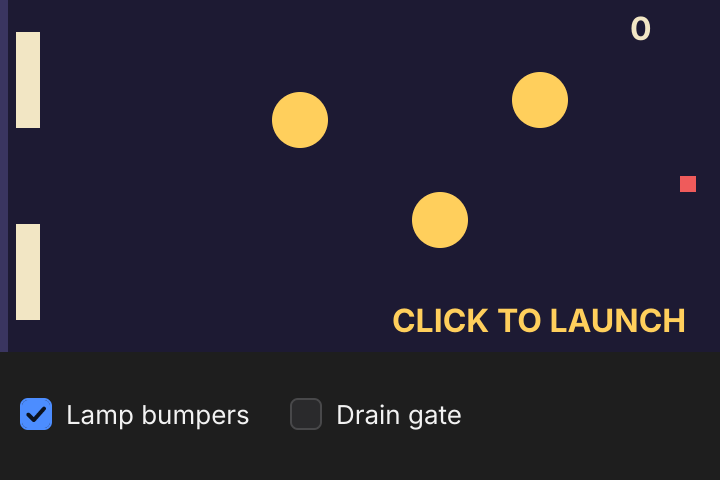
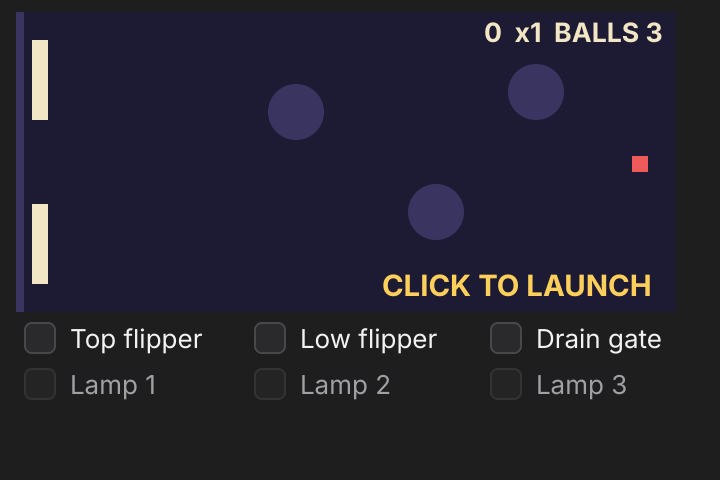
Make the check buttons of Moth Lamp its flippers and lamps
Two check buttons are the flippers: a flipper is up while its check
button is on, and Up and Down call select and deselect. Three disabled
check buttons show the lamps, and the game selects each lamp that the
ball hits. Three lit lamps raise the multiplier. The drain gate holds
for 8 seconds of each ball at half the points, and then the game
deselects and disables it. A game has three balls, and the ball gets
faster the longer it stays in play.

diff --git a/docs/site/index.html b/docs/site/index.html
@@ -51,7 +51,7 @@ if (location.hash && !document.getElementById(decodeURIComponent(location.hash.s
   <div class="wrap">
     <p class="eyebrow">Play</p>
     <h2>A pinball table, in ztk, in this page.</h2>
-    <p class="lede">Moth Lamp is a ztk app that runs in this page as WebAssembly, and its Tcl code is next to it. Click the table or press Space to launch the ball, and press Up and Down to flip. A strong flip sends the ball out of the table and across this page. The check buttons switch the lamps and the drain gate. <a href="widgets/toggles/#play-moth-lamp">Moth Lamp on its widget page</a> · <a href="toys/">All the toys</a></p>
+    <p class="lede">Moth Lamp is a ztk app that runs in this page as WebAssembly, and its Tcl code is next to it. Its flippers are two check buttons: hold Up and Down, or click them. Click the table or press Space to launch, light the three lamps for a multiplier, and keep three balls in play as long as you can. A hit with the middle of a flipper sends the ball out of the table and across this page. <a href="widgets/toggles/#play-moth-lamp">Moth Lamp on its widget page</a> · <a href="toys/">All the toys</a></p>
     <!-- live: toy-mothlamp -->
   </div>
 </section>

diff --git a/docs/widgets/toggles.md b/docs/widgets/toggles.md
@@ -19,82 +19,105 @@ pack .sync .mixed .wifi -anchor w -padx 12 -pady 2
 
 ### Play: Moth Lamp
 
-Moth Lamp is a pinball table on its side, and two check buttons switch the table: "Lamp bumpers" puts the three lamps in, and "Drain gate" closes the drain. Click the table or press Space to launch. Up and Down, or the pad, flip the top and the low flipper. A flip with the middle of a flipper is a strong flip: with "Play on the page" on, the ball leaves the table, falls across the page, and bounces off the headings and the code. Each one that it hits lights up and gives 500 points when the ball comes back. Escape or a scroll brings the ball back at once.
+Moth Lamp is pinball on its side, and its check buttons are the table. "Top flipper" and "Low flipper" are the flippers: a flipper is up while its check button is on. Hold Up or Down, which call `select` on the press and `deselect` on the release, or click the check buttons. Each lamp that the ball hits lights its check button with `select`. The lamp buttons have `-state disabled`, so only the game sets them. Light all three lamps and the multiplier goes up, and the lamps go out. "Drain gate" closes the drain for 8 seconds of each ball, and a hit gives half the points while it is closed. Then the game deselects it and disables it until the next ball. You have three balls, and the ball gets faster the longer it stays in play. Click the table or press Space to launch. With "Play on the page" on, a hit with the middle of a flipper sends the ball out of the table, and each heading that it hits gives 500 points times the multiplier when it comes back.
 
 <!-- widget: toy-mothlamp; shot: update -->
 ```tcl
-# Moth Lamp: a pinball table on its side. The check buttons switch the table.
+# Moth Lamp: pinball on its side. Two check buttons are the flippers, and three show the lamps.
 set ink {#1d1a33 #f2e6c4 #ef5b5b #ffcf5c #3a3560}
-set H 176
-canvas .c -width 360 -height $H -bg [lindex $ink 0] -highlightthickness 0
-checkbutton .lamps -text "Lamp bumpers" -variable lamps
+set H 150
+canvas .c -width 330 -height $H -bg [lindex $ink 0] -highlightthickness 0
+checkbutton .top -text "Top flipper" -variable flip(up)
+checkbutton .low -text "Low flipper" -variable flip(down)
 checkbutton .gate -text "Drain gate" -variable gate
-pack .c -fill x
-pack .lamps .gate -side left -padx 8
-set lamps 1; set gate 0
-# Three lamps: a hit gives 100 points and a kick.
-set bumpers {150 60 220 110 270 50}
-foreach {x y} $bumpers { .c create oval [expr {$x-14}] [expr {$y-14}] [expr {$x+14}] [expr {$y+14}] -tags lamp -fill [lindex $ink 3] -width 0 }
-.c create rectangle 0 0 4 $H -tags gate -fill [lindex $ink 4] -width 0
-foreach {tag y} {top 40 low 136} { .c create rectangle 8 [expr {$y-24}] 16 [expr {$y+24}] -tags $tag -fill [lindex $ink 1] -width 0 }
+foreach n {1 2 3} { checkbutton .lamp$n -text "Lamp $n" -variable lamp($n) -state disabled }
+grid .c - - -padx 8 -pady {6 2}
+grid .top .low .gate -sticky w -padx 10
+grid .lamp1 .lamp2 .lamp3 -sticky w -padx 10
+array set flip {up 0 down 0}; array set lamp {1 0 2 0 3 0}; set gate 0
+# Three lamps: a hit gives 100 points and lights the check button of the lamp.
+set bumpers {140 50 210 100 260 40}
+foreach {x y} $bumpers { .c create oval [expr {$x-14}] [expr {$y-14}] [expr {$x+14}] [expr {$y+14}] -tags lamp -fill [lindex $ink 4] -width 0 }
+.c create rectangle 0 0 4 $H -tags gatebar -fill [lindex $ink 4] -width 0
+foreach {tag y} {up 34 down 116} { .c create rectangle 8 [expr {$y-20}] 16 [expr {$y+20}] -tags $tag -fill [lindex $ink 1] -width 0 }
 .c create rectangle 0 0 8 8 -tags ball -fill [lindex $ink 2] -width 0
-.c create text 270 160 -tags msg -text "CLICK TO LAUNCH" -fill [lindex $ink 3] -font {TkFixedFont 12 bold}
-.c create text 320 14 -tags score -fill [lindex $ink 1] -font {TkFixedFont 12 bold}
-array set b {x 340 y 88 vx 0 vy 0 run 0 out 0 score 0 flip 0}
+.c create text 250 136 -tags msg -text "CLICK TO LAUNCH" -fill [lindex $ink 3] -font {TkFixedFont 11 bold}
+.c create text 324 10 -anchor e -tags score -fill [lindex $ink 1] -font {TkFixedFont 10 bold}
+array set b {x 310 y 75 vx 0 vy 0 run 0 out 0 score 0 balls 3 mult 1 t 0 gt 0}
 array set toy {spill 0 out {} back {} sfx {}}
-# The keys: Up flips the top flipper, Down the low one, A launches.
-proc toy_press {key} {
+# The keys hold a flipper up: a press selects its check button, and a release deselects it.
+foreach {k w} {Up .top Down .low} { bind . <KeyPress-$k> "$w select"; bind . <KeyRelease-$k> "$w deselect" }
+proc launch {} {
     global b
-    switch $key {
-        up - down { set b(flip) $key; after 120 {set b(flip) 0} }
-        default { if {!$b(run)} { array set b {x 340 y 88 vx -7 run 1}; set b(vy) [expr {rand()*4-2}]; .c itemconfigure msg -text "" } }
-    }
+    if {$b(run)} return
+    if {$b(balls) == 0} { array set b {score 0 balls 3 mult 1} }
+    array set b [list x 310 y 75 vx -6 vy [expr {rand()*4-2}] run 1 t 0 gt 0]
+    .gate configure -state normal
+    .c itemconfigure msg -text ""
 }
-foreach {k v} {<Up> up <Down> down <space> a <ButtonPress-1> a} { bind .c $k [list toy_press $v] }
+proc toy_press {key} {
+    switch $key { up { .top select; after 140 {.top deselect} } down { .low select; after 140 {.low deselect} } default launch }
+}
+bind .c <ButtonPress-1> launch
+bind . <space> launch
 focus .c
 proc tick {} {
-    global b toy H lamps gate bumpers
-    .c itemconfigure lamp -state [expr {$lamps ? "normal" : "hidden"}]
-    .c itemconfigure gate -fill [lindex $::ink [expr {$gate ? 1 : 4}]]
-    foreach {tag y key} {top 40 up low 136 down} { .c coords $tag [expr {$b(flip) eq $key ? 12 : 8}] [expr {$y-24}] 20 [expr {$y+24}] }
+    global b toy H gate bumpers flip lamp
+    # The drain gate holds for 8 seconds of each ball, and then it opens for good.
+    if {$gate && $b(run)} { incr b(gt); if {$b(gt) > 480} { .gate deselect; .gate configure -state disabled } }
+    .c itemconfigure gatebar -fill [lindex $::ink [expr {$gate ? 1 : 4}]]
+    foreach tag {up down} y {34 116} { .c coords $tag [expr {$flip($tag) ? 12 : 8}] [expr {$y-20}] [expr {$flip($tag) ? 22 : 16}] [expr {$y+20}] }
+    set i 0
+    foreach {x y} $bumpers { incr i; .c itemconfigure [lindex [.c find withtag lamp] [expr {$i-1}]] -fill [lindex $::ink [expr {$lamp($i) ? 3 : 4}]] }
     if {$b(run) && !$b(out)} {
-        # The table leans to the left, so the ball falls to the flippers.
-        set b(vx) [expr {$b(vx) - 0.12}]
-        set b(x) [expr {$b(x) + $b(vx)}]
-        set b(y) [expr {$b(y) + $b(vy)}]
+        # The table leans to the left, and the ball speeds up as the ball stays in play.
+        incr b(t)
+        set k [expr {1 + min(0.8, $b(t) / 3000.0)}]
+        set b(vx) [expr {$b(vx) - 0.1 * $k}]
+        set b(x) [expr {$b(x) + $b(vx) * $k}]
+        set b(y) [expr {$b(y) + $b(vy) * $k}]
         if {$b(y) < 0 || $b(y) > $H - 8} { set b(vy) [expr {-$b(vy)}]; set b(y) [expr {max(0, min($H - 8, $b(y)))}] }
-        if {$b(x) > 352} { set b(vx) [expr {-abs($b(vx))}] }
-        if {$lamps} {
-            foreach {x y} $bumpers {
-                set dx [expr {$b(x) + 4 - $x}]; set dy [expr {$b(y) + 4 - $y}]
-                set d [expr {hypot($dx, $dy)}]
-                if {$d < 18} { set b(vx) [expr {6 * $dx / $d}]; set b(vy) [expr {6 * $dy / $d}]; incr b(score) 100; lappend toy(sfx) hit }
+        if {$b(x) > 322} { set b(vx) [expr {-abs($b(vx))}] }
+        set i 0
+        foreach {x y} $bumpers {
+            incr i
+            set dx [expr {$b(x) + 4 - $x}]; set dy [expr {$b(y) + 4 - $y}]
+            set d [expr {hypot($dx, $dy)}]
+            if {$d < 18} {
+                set b(vx) [expr {5 * $dx / $d}]; set b(vy) [expr {5 * $dy / $d}]
+                .lamp$i select
+                incr b(score) [expr {($gate ? 50 : 100) * $b(mult)}]
+                lappend toy(sfx) hit
+                # All three lamps lit: the multiplier goes up, and the lamps go out.
+                if {$lamp(1) && $lamp(2) && $lamp(3)} { incr b(mult); foreach n {1 2 3} { .lamp$n deselect }; lappend toy(sfx) point }
             }
         }
-        if {$b(x) < 16 && $b(vx) < 0} {
-            set f [expr {$b(y) < 88 ? "up" : "down"}]
-            set fy [expr {$f eq "up" ? 40 : 136}]
-            if {$b(flip) eq $f && abs($b(y) + 4 - $fy) < 28} {
-                # A flip: a hit near the middle of the flipper launches the ball out of the table.
-                set b(vx) 9; set b(vy) [expr {($b(y) + 4 - $fy) / 4.0}]
+        if {$b(x) < 22 && $b(vx) < 0} {
+            set f [expr {$b(y) < 75 ? "up" : "down"}]
+            set fy [expr {$f eq "up" ? 34 : 116}]
+            if {$flip($f) && abs($b(y) + 4 - $fy) < 24} {
+                set b(vx) 8; set b(vy) [expr {($b(y) + 4 - $fy) / 4.0}]; set b(x) 22
                 lappend toy(sfx) smash
-                if {$toy(spill) && abs($b(y) + 4 - $fy) < 8} {
-                    set toy(out) [list $b(x) $b(y) 8 -10 0.4]
+                if {$toy(spill) && abs($b(y) + 4 - $fy) < 6} {
+                    set toy(out) [list [expr {[winfo x .c] + $b(x)}] [expr {[winfo y .c] + $b(y)}] 8 -10 0.4]
                     set b(out) 1
                 }
-            } elseif {$gate} { set b(vx) [expr {abs($b(vx))}]; lappend toy(sfx) wall
-            } elseif {$b(x) < -8} { set b(run) 0; .c itemconfigure msg -text "CLICK TO LAUNCH"; lappend toy(sfx) point }
+            } elseif {$gate && $b(x) < 6} { set b(vx) [expr {abs($b(vx))}]; lappend toy(sfx) wall
+            } elseif {$b(x) < -8} {
+                incr b(balls) -1; set b(run) 0; lappend toy(sfx) point
+                .c itemconfigure msg -text [expr {$b(balls) ? "CLICK TO LAUNCH" : "GAME OVER: $b(score)"}]
+            }
         }
     }
     # The page gives the ball back as {x vx vy hits}: each heading that it hit gives 500.
     if {$b(out) && $toy(back) ne ""} {
-        lassign $toy(back) b(x) b(vx) b(vy) hits
-        set b(x) [expr {max(200, $b(x))}]; set b(y) 0; set b(vx) [expr {-abs($b(vx))}]
-        incr b(score) [expr {500 * $hits}]
+        lassign $toy(back) x b(vx) b(vy) hits
+        set b(x) 200; set b(y) 0; set b(vx) [expr {-abs($b(vx))}]
+        incr b(score) [expr {500 * $hits * $b(mult)}]
         set b(out) 0; set toy(back) {}
     }
     .c coords ball [expr {$b(out) ? -20 : int($b(x))/4*4}] [expr {int($b(y))/4*4}] [expr {$b(out) ? -12 : int($b(x))/4*4+8}] [expr {int($b(y))/4*4+8}]
-    .c itemconfigure score -text $b(score)
+    .c itemconfigure score -text "$b(score)  x$b(mult)  BALLS $b(balls)"
     after 16 tick
 }
 tick

diff --git a/docs/toys.md b/docs/toys.md
@@ -4,7 +4,7 @@ Each toy is a small arcade game in ztk, and the widget of its page drives it. A 
 
 | Toy | Widget | What the widget does |
 |---|---|---|
-| [![Moth Lamp: a pinball table on its side with three lamps](site/shots/widget-toy-mothlamp-light.png)](widgets/toggles.md#play-moth-lamp)<br>[Moth Lamp](widgets/toggles.md#play-moth-lamp) | `checkbutton` | Two check buttons switch the lamp bumpers and the drain gate of a pinball table. |
+| [![Moth Lamp: a pinball table on its side with three lamps](site/shots/widget-toy-mothlamp-light.png)](widgets/toggles.md#play-moth-lamp)<br>[Moth Lamp](widgets/toggles.md#play-moth-lamp) | `checkbutton` | Two check buttons are the flippers of a pinball table, and three show its lamps. |
 | [![Backspin: a paddle match, with a vertical scale as the paddle](site/shots/widget-toy-backspin-light.png)](widgets/range.md#play-backspin)<br>[Backspin](widgets/range.md#play-backspin) | `scale` | The scale is your paddle in a match to 7 points. |
 | [![Tin Moon: a lander over a rough ground with a gold pad](site/shots/widget-toy-tinmoon-light.png)](widgets/ttk.md#play-tin-moon)<br>[Tin Moon](widgets/ttk.md#play-tin-moon) | `ttk::scale`, `ttk::progressbar` | The scale is the throttle of the lander, and the progress bar is its fuel gauge. |
 | [![Skate Pond: a list of levels and an ice puzzle](site/shots/widget-toy-skatepond-light.png)](widgets/listbox.md#play-skate-pond)<br>[Skate Pond](widgets/listbox.md#play-skate-pond) | `listbox` | The listbox picks the level, and a clear level turns gold. |
